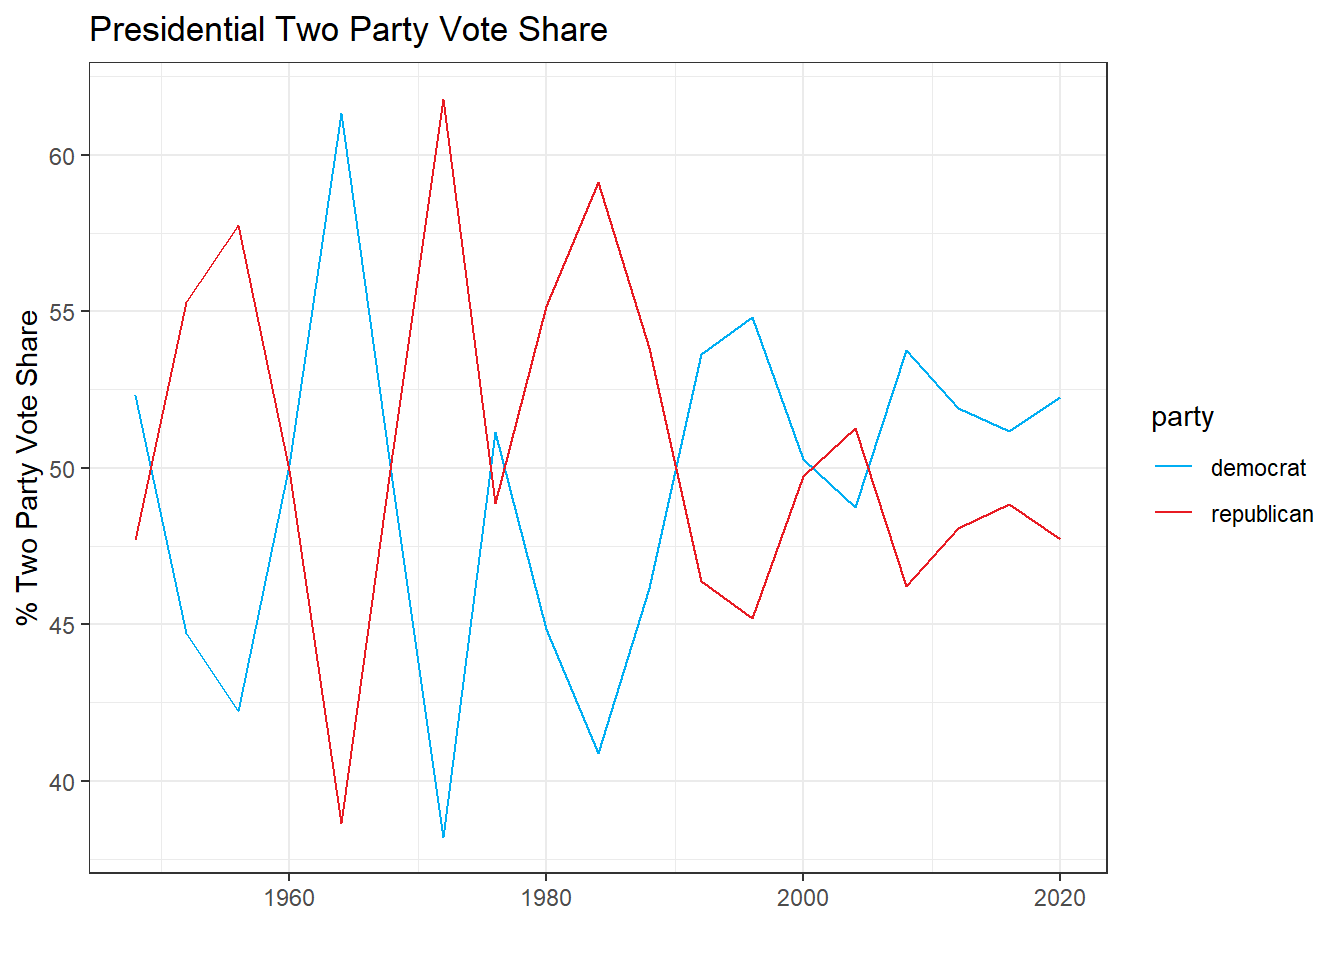
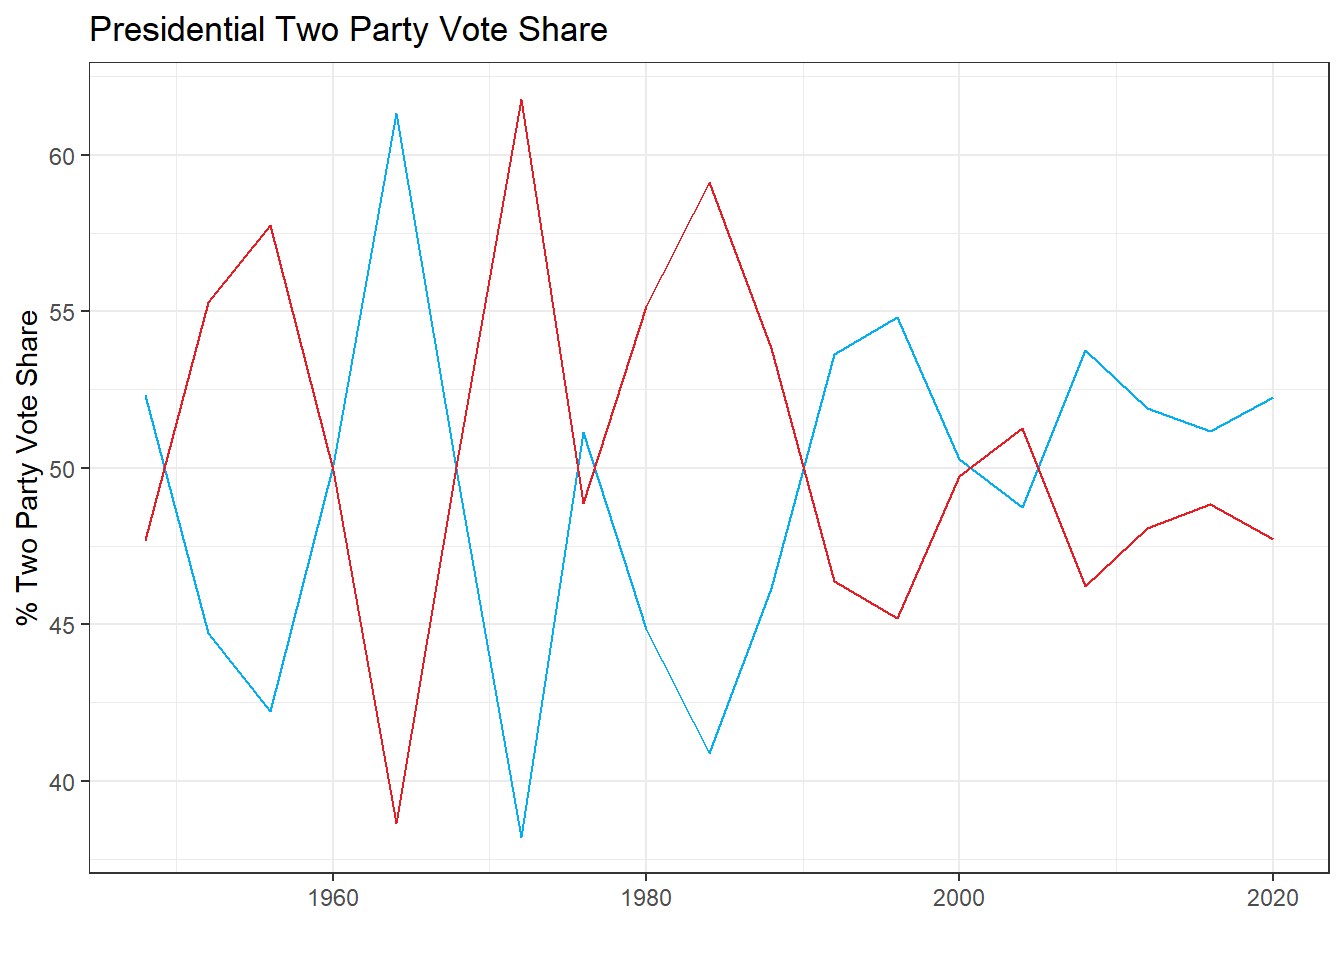
trying to hide ugly code

diff --git a/public/post/2024/09/05/testing-blog-upload/index.html b/public/post/2024/09/05/testing-blog-upload/index.html
@@ -34,9 +34,6 @@
 </div>
 
 <main>
-<pre><code class="language-r">library(ggplot2)
-library(tidyverse)
-</code></pre>
 <pre><code>## ── Attaching core tidyverse packages ──────────────────────── tidyverse 2.0.0 ──
 ## ✔ dplyr     1.1.4     ✔ readr     2.1.5
 ## ✔ forcats   1.0.0     ✔ stringr   1.5.1
@@ -48,10 +45,6 @@ library(tidyverse)
 ## ℹ Use the conflicted package (&lt;http://conflicted.r-lib.org/&gt;) to force all conflicts to become errors
 </code></pre>
 <p>This is my first blog post, for the week of September 2nd. The primary method of prediction for this week is a model based on the results of the past two elections.</p>
-<pre><code class="language-r"># The code for this post is heavily based on the code that was introduced in section this week. 
-
-nat_data &lt;- read_csv(&quot;popvote_1948-2020.csv&quot;)
-</code></pre>
 <pre><code>## Rows: 38 Columns: 9
 ## ── Column specification ────────────────────────────────────────────────────────
 ## Delimiter: &quot;,&quot;
@@ -61,10 +54,7 @@ nat_data &lt;- read_csv(&quot;popvote_1948-2020.csv&quot;)
 ## 
 ## ℹ Use `spec()` to retrieve the full column specification for this data.
 ## ℹ Specify the column types or set `show_col_types = FALSE` to quiet this message.
-</code></pre>
-<pre><code class="language-r">state_data &lt;- read_csv(&quot;clean_wide_state_2pv_1948_2020.csv&quot;)
-</code></pre>
-<pre><code>## Rows: 959 Columns: 14
+## Rows: 959 Columns: 14
 ## ── Column specification ────────────────────────────────────────────────────────
 ## Delimiter: &quot;,&quot;
 ## chr  (1): state
@@ -90,7 +80,9 @@ nat_data &lt;- read_csv(&quot;popvote_1948-2020.csv&quot;)
 ## 2 republican         8
 </code></pre>
 <p>One thing I take away from this chart is how little data we actually have to train prediction models on. There have only been 19 presidential elections since 1948.</p>
-<pre><code class="language-r">my_theme &lt;- theme_bw()
+<pre><code class="language-r">my_theme &lt;- theme_bw() + theme(legend.position = &quot;none&quot;)
+
+options(repr.plot.width=20, repr.plot.height=8)
 
 nat_data |&gt;
   ggplot(aes(x = year, y = pv2p, color = party)) +

diff --git a/content/post/2024-09-03-testing-blog-upload/index.md b/content/post/2024-09-03-testing-blog-upload/index.md
@@ -7,11 +7,6 @@ categories: [election-prediction]
 tags: [president]
 ---
 
-``` r
-library(ggplot2)
-library(tidyverse)
-```
-
 ```
 ## ── Attaching core tidyverse packages ──────────────────────── tidyverse 2.0.0 ──
 ## ✔ dplyr     1.1.4     ✔ readr     2.1.5
@@ -27,12 +22,6 @@ library(tidyverse)
 This is my first blog post, for the week of September 2nd. The primary method of prediction for this week is a model based on the results of the past two elections. 
 
 
-``` r
-# The code for this post is heavily based on the code that was introduced in section this week. 
-
-nat_data <- read_csv("popvote_1948-2020.csv")
-```
-
 ```
 ## Rows: 38 Columns: 9
 ## ── Column specification ────────────────────────────────────────────────────────
@@ -43,13 +32,6 @@ nat_data <- read_csv("popvote_1948-2020.csv")
 ## 
 ## ℹ Use `spec()` to retrieve the full column specification for this data.
 ## ℹ Specify the column types or set `show_col_types = FALSE` to quiet this message.
-```
-
-``` r
-state_data <- read_csv("clean_wide_state_2pv_1948_2020.csv")
-```
-
-```
 ## Rows: 959 Columns: 14
 ## ── Column specification ────────────────────────────────────────────────────────
 ## Delimiter: ","
@@ -86,7 +68,9 @@ One thing I take away from this chart is how little data we actually have to tra
 
 
 ``` r
-my_theme <- theme_bw()
+my_theme <- theme_bw() + theme(legend.position = "none")
+
+options(repr.plot.width=20, repr.plot.height=8)
 
 nat_data |>
   ggplot(aes(x = year, y = pv2p, color = party)) +
